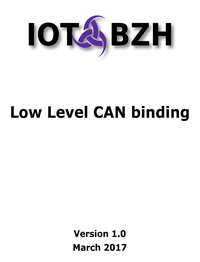
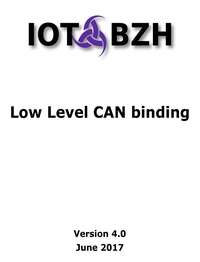
Update doc revision and pdf cover.

Changed region(s): [[0.36, 0.855, 0.63, 0.9771]]

diff --git a/docs/Doc-Revisions.md b/docs/Doc-Revisions.md
@@ -4,4 +4,4 @@ Document revisions
 | Date        | Version | Designation                          | Author                  |
 |-------------|---------|--------------------------------------|-------------------------|
 | 20 Mar 2017 |   1.0   | Initial release                      | R. Forlot [ Iot.bzh ] <br/> S. Douheret [ Iot.bzh ] |
-| 20 Jun 2017 |   2.0   | Update documentation with new v4.0 features | R. Forlot [ Iot.bzh ] <br/> S. Douheret [ Iot.bzh ] |
+| 20 Jun 2017 |   4.0   | Update documentation with new v4.0 features | R. Forlot [ Iot.bzh ] <br/> S. Douheret [ Iot.bzh ] |
